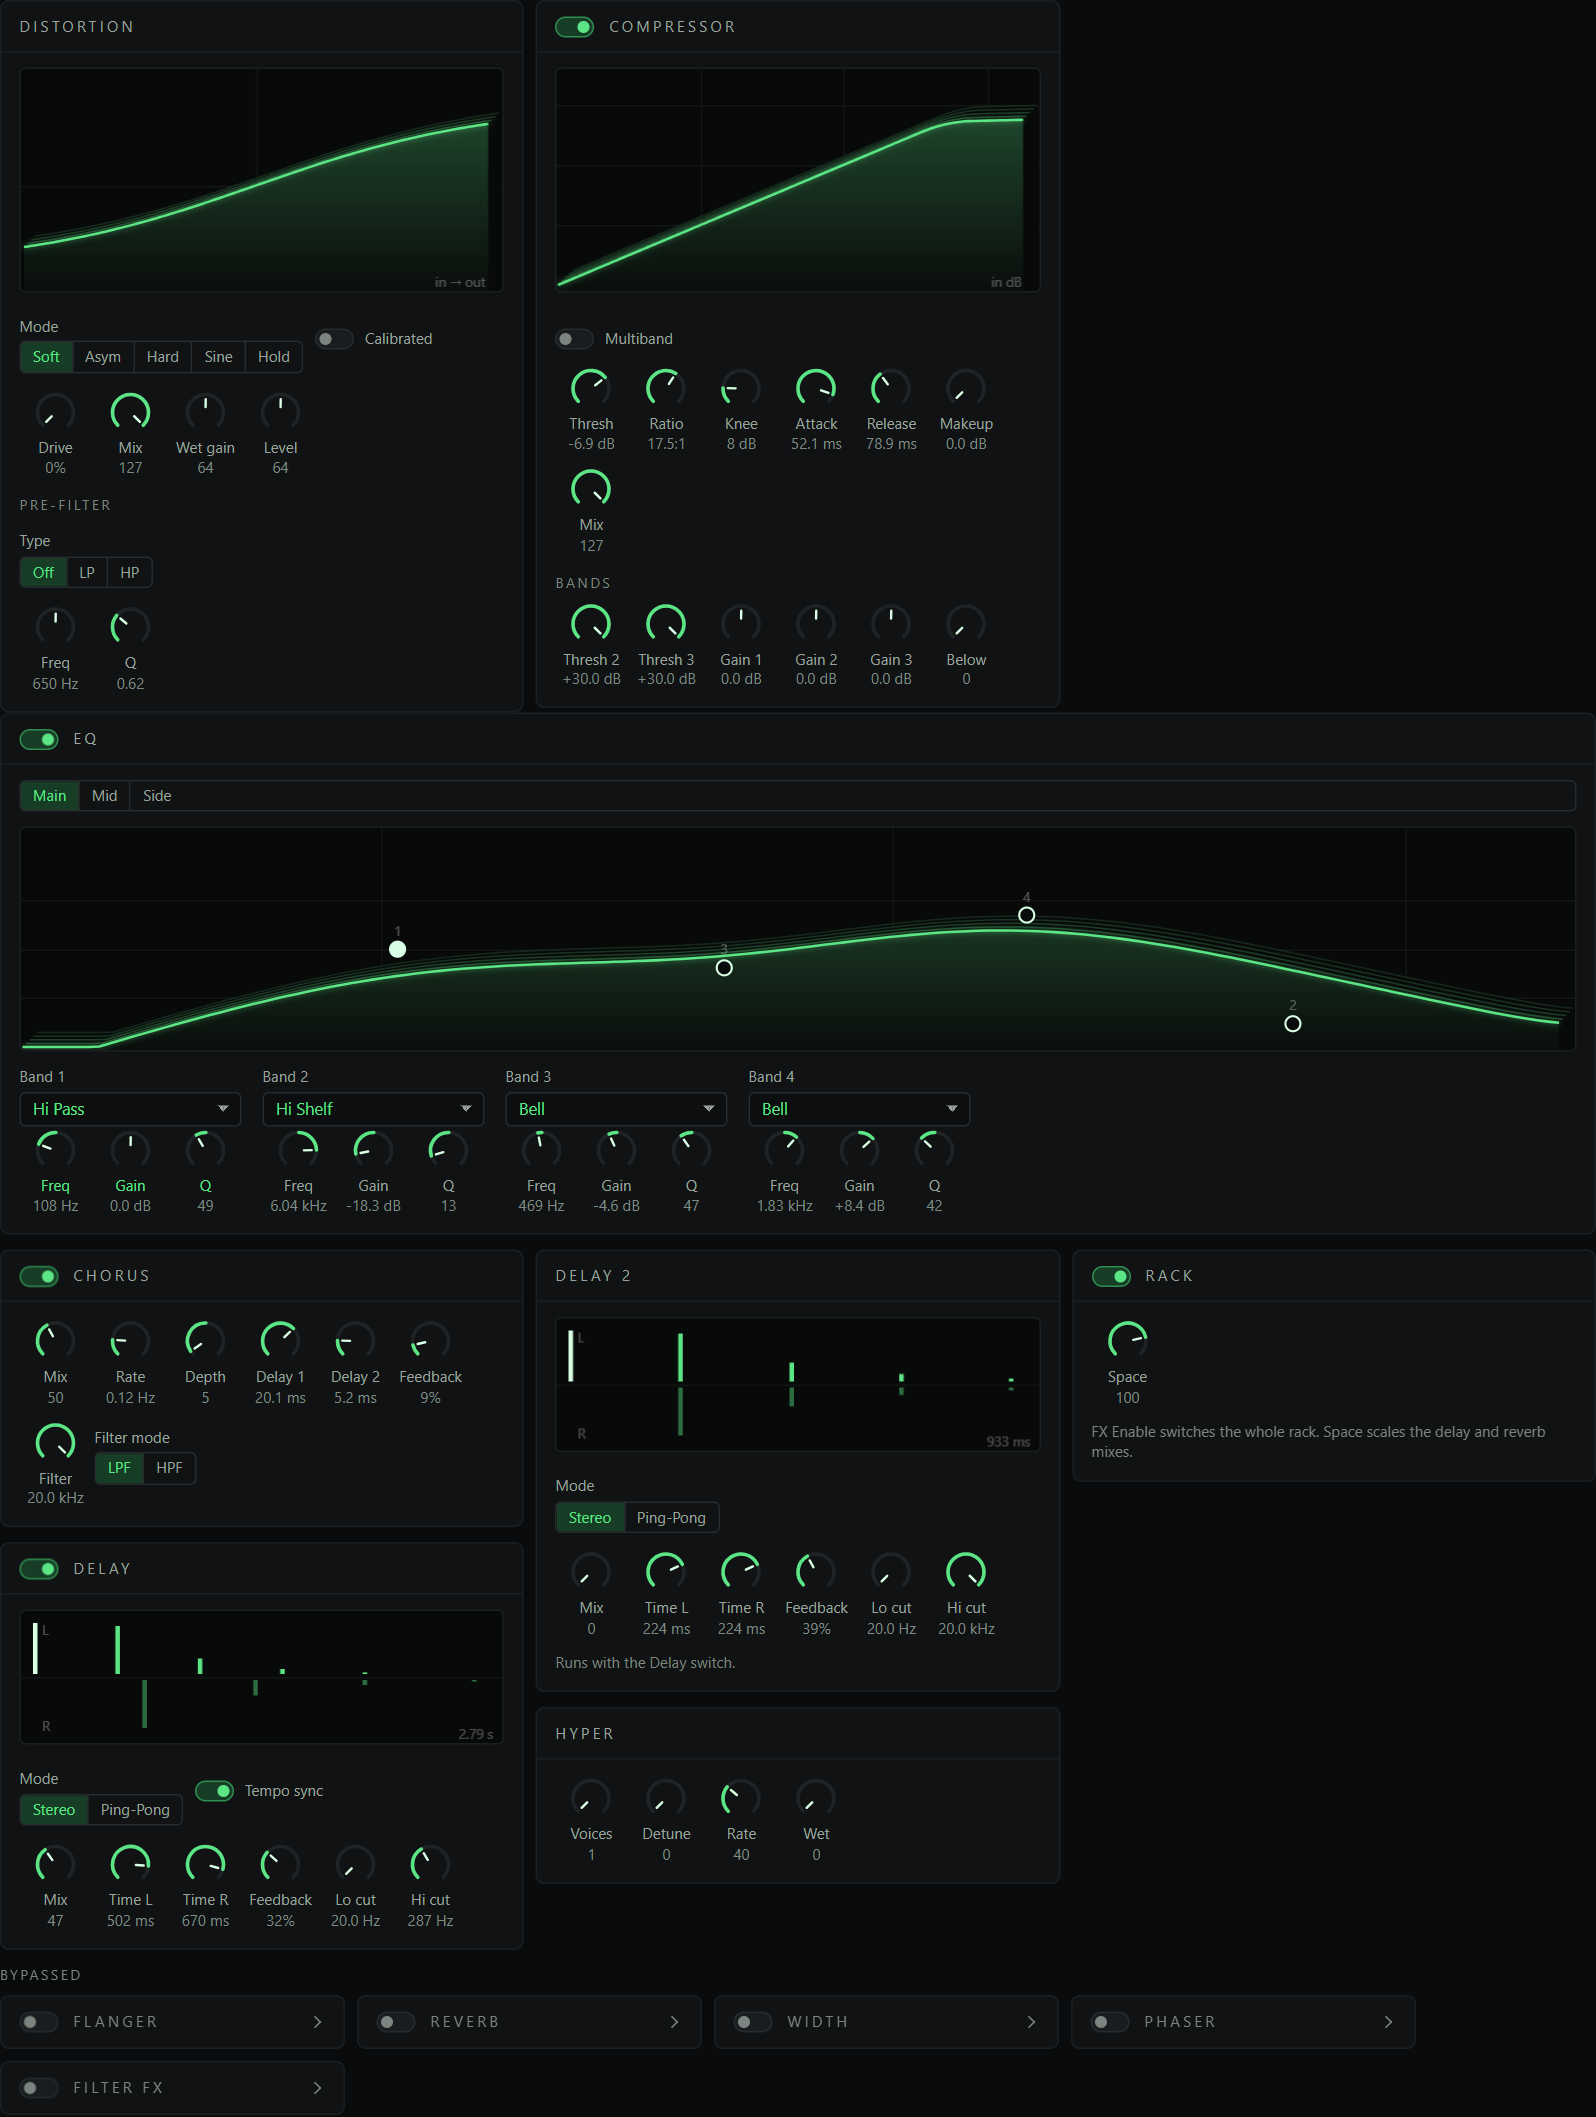
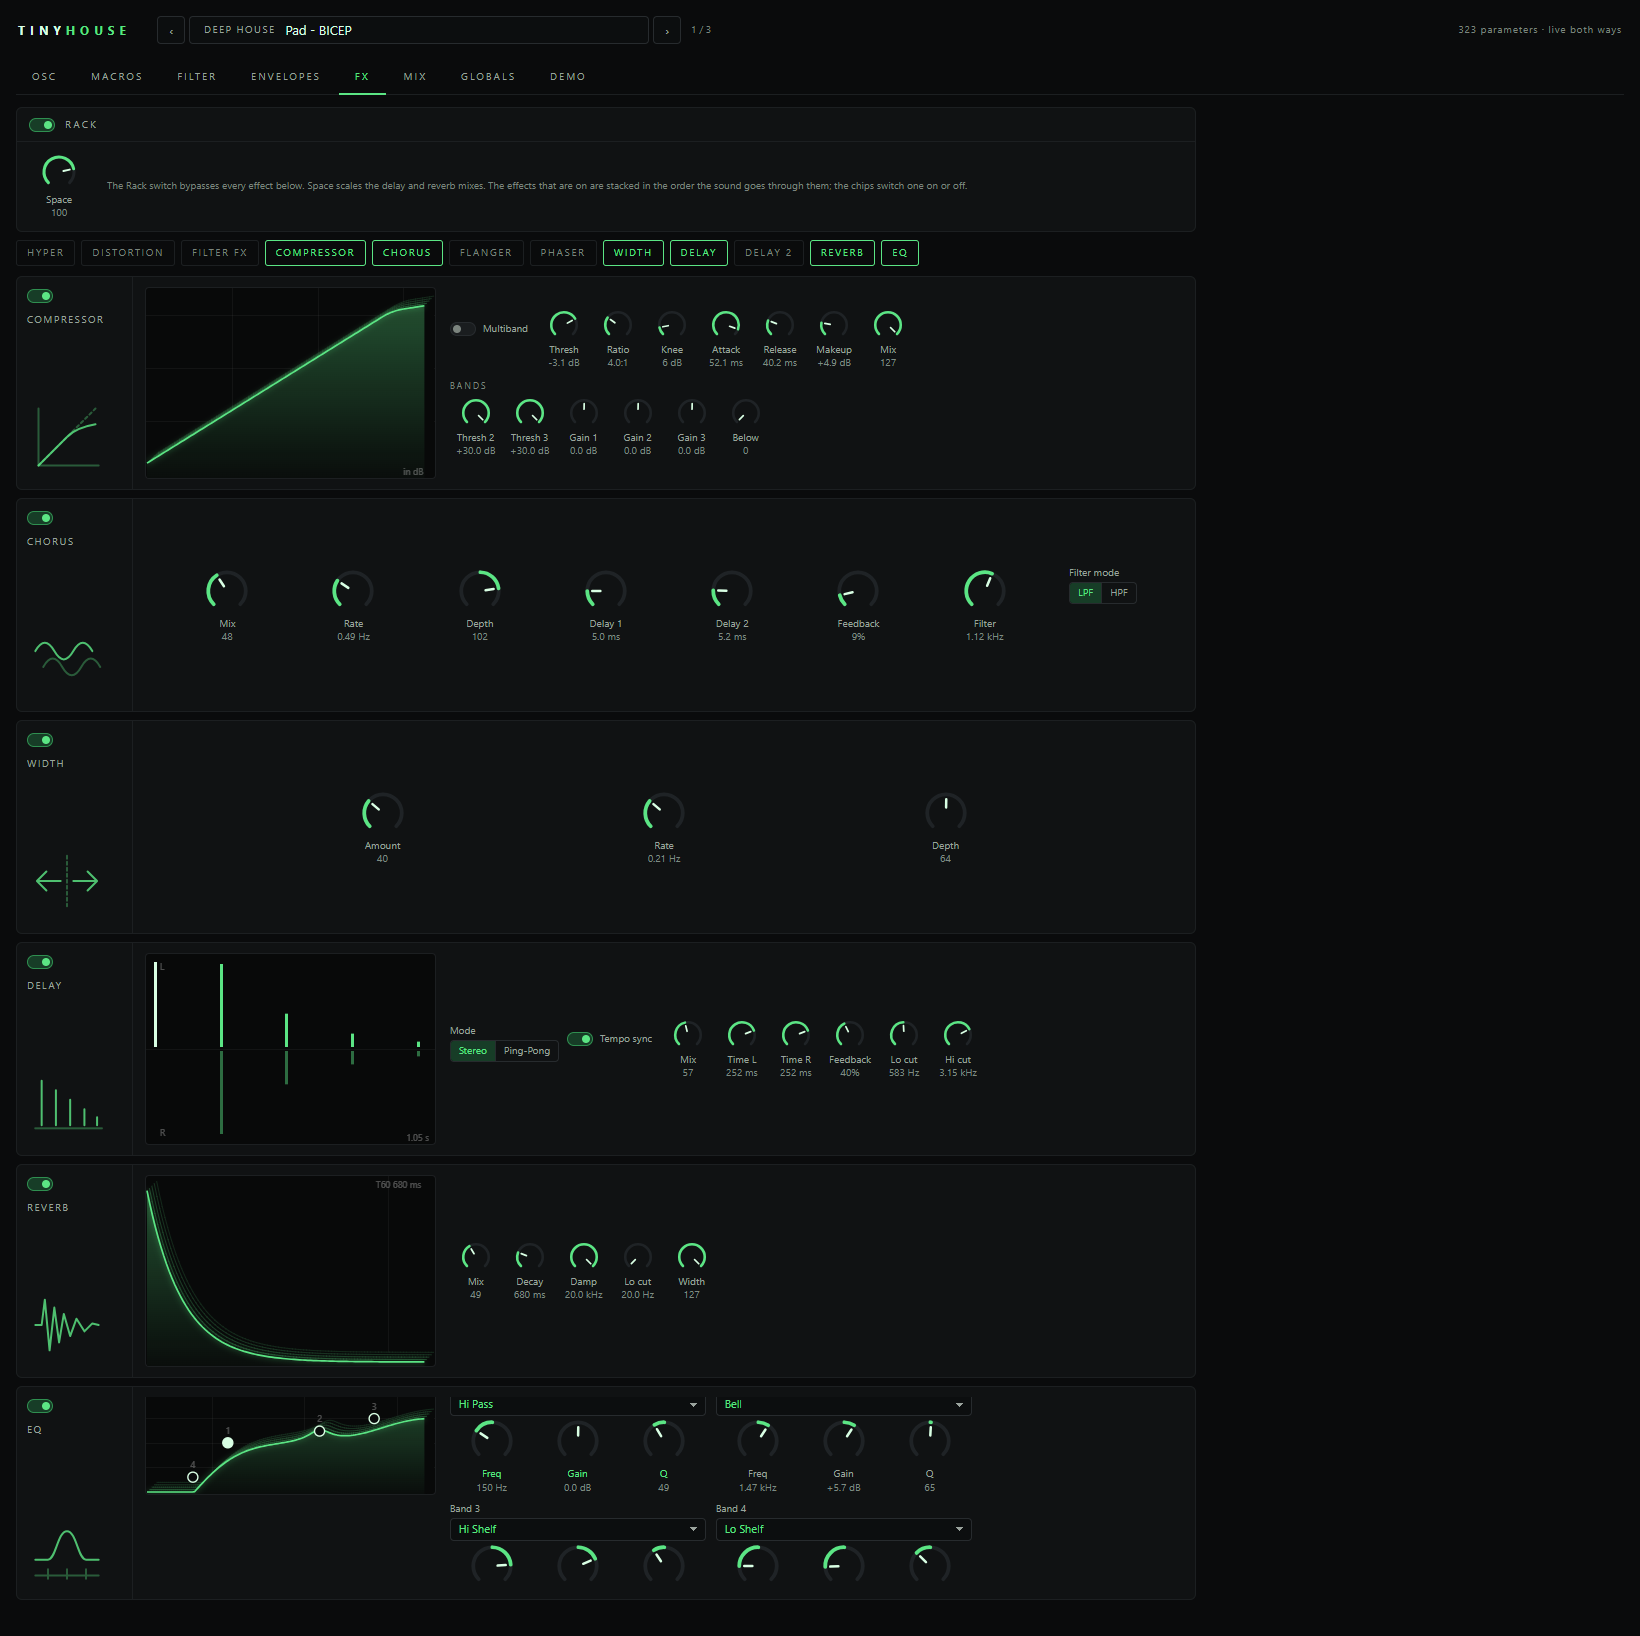
README: workflow, macros you set yourself, refreshed Remote UI and FX screenshots; macro default raises the control; load test: macros move what they hold

diff --git a/schwung-tablor/src/web_ui.html b/schwung-tablor/src/web_ui.html
@@ -2741,8 +2741,10 @@ function macSend(cmd) {
   setTimeout(macReload, 160);
 }
 function macDefaultTravel(key) {
-  var m = META[key], cur = val(key), mid = (m.min + m.max) / 2;
-  return Math.round(cur <= mid ? m.max - cur : m.min - cur);               /* sweeps toward the far end of the control as the macro goes 0 -> 127 */
+  var m = META[key], cur = Number(val(key)), span = (m.max - m.min) || 1;
+  if (!isFinite(cur)) cur = m.min;
+  /* the macro going UP raises the control, from where it sits now to its top; only a control already within a tenth of its top goes the other way, down to its bottom */
+  return Math.round(cur <= m.max - span * 0.1 ? m.max - cur : m.min - cur);
 }
 function macMenuClose() { var o = document.getElementById("macmenu"); if (o) o.remove(); }
 function macMenu(key, label, x, y) {
@@ -2833,7 +2835,7 @@ function buildMacros(page) {
   MAC.note = el("div", "demo-note", p.body, "This sound has no macros yet. Right-click any knob (on any tab) and choose a macro to put it there: the macro then moves that control, and the Move shows it as one of its eight macro knobs. Imported Serum presets bring their own.");
   macRender();
   var ap = panel("Assignments", g);
-  el("div", "demo-note", ap.body, "Right-click a knob to add it to a macro or take it off. Here you set how far each control travels as the macro goes from 0 to 127 (a negative number runs it the other way), name the macro, or clear it. Knobs that sit on a macro show a small M tag.");
+  el("div", "demo-note", ap.body, "Right-click a knob to add it to a macro or take it off. A new assignment lets the macro raise the control from where it sits to its top; here you set how far each control travels as the macro goes from 0 to 127 (a negative number runs it the other way), name the macro, or clear it. Knobs that sit on a macro show a small M tag.");
   MAC.list = el("div", null, ap.body);
   MAC.empty = el("div", "demo-note", ap.body, "Nothing is assigned yet.");
   macList();

diff --git a/schwung-tablor/tools/loadtest.cpp b/schwung-tablor/tools/loadtest.cpp
@@ -220,6 +220,27 @@ int main(int argc, char **argv)
         api->set_param(inst, "macro_edit", "add|9|wt1_level|10|X");
         settleMacros();
         CHECK(read("macro_routes") == "2:wt1_level:40,2:flt_freq:-30", "macro_edit add: routes read back (\"%s\")", read("macro_routes").c_str());
+        {   /* and the macro must MOVE what it holds: macro 2 up by 127 takes Level 40 up, Cutoff 30 down */
+            const float l0 = (float) atof(read("wt1_level").c_str()), c0 = (float) atof(read("flt_freq").c_str());
+            api->set_param(inst, "mac2", "0"); api->set_param(inst, "mac2", "127");
+            const float l1 = (float) atof(read("wt1_level").c_str()), c1 = (float) atof(read("flt_freq").c_str());
+            CHECK(std::fabs((l1 - l0) - 40.0f) < 1.5f || l1 >= 127.0f, "turning macro 2 moves Level (%g -> %g)", (double) l0, (double) l1);
+            CHECK(std::fabs((c1 - c0) + 30.0f) < 1.5f || c1 <= 0.0f, "... and Cutoff (%g -> %g)", (double) c0, (double) c1);
+            api->set_param(inst, "mac2", "0");
+        }
+        {   /* the remote UI's spelling ("synth:" in front of every key), a travel that is not a number, and a macro that was already part-way up when the knob was added */
+            api->set_param(inst, "synth:macro_edit", "add|4|wt2_level|NaN|Bad");
+            api->set_param(inst, "synth:mac4", "50");
+            api->set_param(inst, "synth:macro_edit", "add|4|wt3_level|30|Ok");
+            settleMacros();
+            const float a0 = (float) atof(read("wt3_level").c_str()), n0 = (float) atof(read("wt2_level").c_str());
+            api->set_param(inst, "synth:mac4", "100");
+            const float a1 = (float) atof(read("wt3_level").c_str()), n1 = (float) atof(read("wt2_level").c_str());
+            CHECK(std::fabs((a1 - a0) - 30.0f * 50.0f / 127.0f) < 1.5f || a1 >= 127.0f, "prefixed keys, macro already at 50: +50 moves Level by 30 x 50/127 (%g -> %g)", (double) a0, (double) a1);
+            CHECK(!std::isnan(n1) && std::fabs(n1 - n0) < 0.01f, "a NaN travel moves nothing and breaks nothing (%g -> %g, routes \"%s\")", (double) n0, (double) n1, read("macro_routes").c_str());
+            api->set_param(inst, "synth:macro_edit", "clear|4");
+            settleMacros();
+        }
         CHECK(read("macro_names") == "|Level||||||", "the first knob names the macro (\"%s\")", read("macro_names").c_str());
         CHECK(unitOf(2) == "Level", "the Move gets the name as macro 2's unit (\"%s\")", unitOf(2).c_str());
         api->set_param(inst, "macro_edit", "travel|2|wt1_level|-17.5");

diff --git a/README.md b/README.md
@@ -15,7 +15,16 @@ Serum to measure against, so it sets loudness, reverb and width from general rul
 out as close as possible to the original, use the Python scripts instead: they render each preset through the real plugin and match the level, reverb and width to it
 (see [More accurate conversion with the Python scripts](#more-accurate-conversion-with-the-python-scripts)).
 
-![The TinyHouse remote UI: three wavetable oscillators, with the tabs for the macros, filters, envelopes and effects below](docs/img/remote-ui.png)
+![The TinyHouse remote UI: tabs along the top (Osc, Macros, Filter, Envelopes, FX, Mix, Globals, Demo), three wavetable oscillators on the Osc tab](docs/img/remote-ui.png)
+
+## The workflow
+
+1. **Bring a Serum 2 preset.** Drop a `.SerumPreset` (or a whole pack) on the remote UI's Import dialog. It is converted in your browser and stored on the Move.
+2. **Fine-tune it on the remote UI.** Everything is a live control, in both directions with the Move: wavetables and their positions, unison, the filter curve, envelopes, the whole effects rack. Change a knob and you hear it on the Move straight away.
+3. **Put the eight controls you care about on macros.** Right-click any knob, on any tab, and choose a macro (see [Macros you set yourself](#macros-you-set-yourself)). Name them if you like. The Move shows them as its eight macro knobs.
+4. **Jam on the Move.** Pick the sound, play, and work the eight macros and the performance pages. No computer is needed from here; the sound is saved with the slot and with your set.
+
+## Getting started
 
 ## Getting started
 
@@ -50,8 +59,8 @@ Your presets go nowhere but your Move: the converter runs inside the browser pag
 
 ## Tweaking and playing
 
-**Fine-tuning is on the remote UI.** It is laid out after Serum: three oscillators with 3D wavetable displays, then tabs for macros, filters, envelopes,
-effects, mix and globals. Every control is live in both directions with the Move. Drag the filter curve and envelopes, pick wavetables from the
+**Fine-tuning is on the remote UI.** It is laid out after Serum: tabs along the top (Osc, Macros, Filter, Envelopes, FX, Mix, Globals, Demo), and on the Osc tab
+three oscillators with 3D wavetable displays. Every control is live in both directions with the Move. Drag the filter curve and envelopes, pick wavetables from the
 list, set the effects, and save the result as a preset of your own. The import report's loudness, reverb and width are set from general rules (the
 importer has no Serum to compare against), so set **Volume** and the effects to taste.
 
@@ -75,12 +84,27 @@ It is a live limit, not part of the sound: it is not stored in presets, so loadi
 
 A preset's macros come across live: turning a macro moves the same parameters Serum's would (cutoff, effect mix, wavetable position and so on).
 
+### Macros you set yourself
+
+Any preset can have macros, not only the ones that came with a Serum preset. On the remote UI, **right-click a knob** (on any tab) and a small menu lists the eight
+macros. Pick one and the knob is now on that macro: it shows a small **M** tag, and turning the macro, on the Move or on the page, moves it.
+
+![Right-clicking a knob: the menu lists the eight macros, each with its name and an add or remove entry](docs/img/remote-macro-menu.png)
+
+- A new assignment lets the macro raise the control from where it sits now to its top (a control already near its top goes down instead). Put several knobs on
+  one macro to move them together: a cutoff and a reverb mix, say.
+- The **Macros** tab lists what each macro holds. There you name a macro (the name is what the Move shows on that knob), set how far each control travels as the
+  macro goes from 0 to 127 as a percentage of its range (a negative number runs it the other way), take a control off, or clear a whole macro.
+- Assignments are saved with the slot and come back with your set. A macro with nothing on it has no name and stays hidden on the Move.
+
+![The Macros tab: the macros that are in use as dials, and under Assignments what each one moves and by how much](docs/img/remote-macros.png)
+
 ## The effects chain
 
 Most Serum presets get half their character from the effects rack, so the rack is not an afterthought. TinyHouse has a full effects chain, and each stage was
 measured against Serum with controlled test patches (not tuned by ear), so the effects follow Serum's own curves:
 
-![The FX tab on a Deep House preset: the stages in use with their controls, and the bypassed ones listed underneath](docs/img/remote-fx.png)
+![The FX tab is a rack like Serum's: the chips along the top switch an effect on or off, and the effects that are on are stacked in signal order, each with its symbol, display and controls](docs/img/remote-fx.png)
 
 | Stage | Serum effect | |
 |---|---|---|
